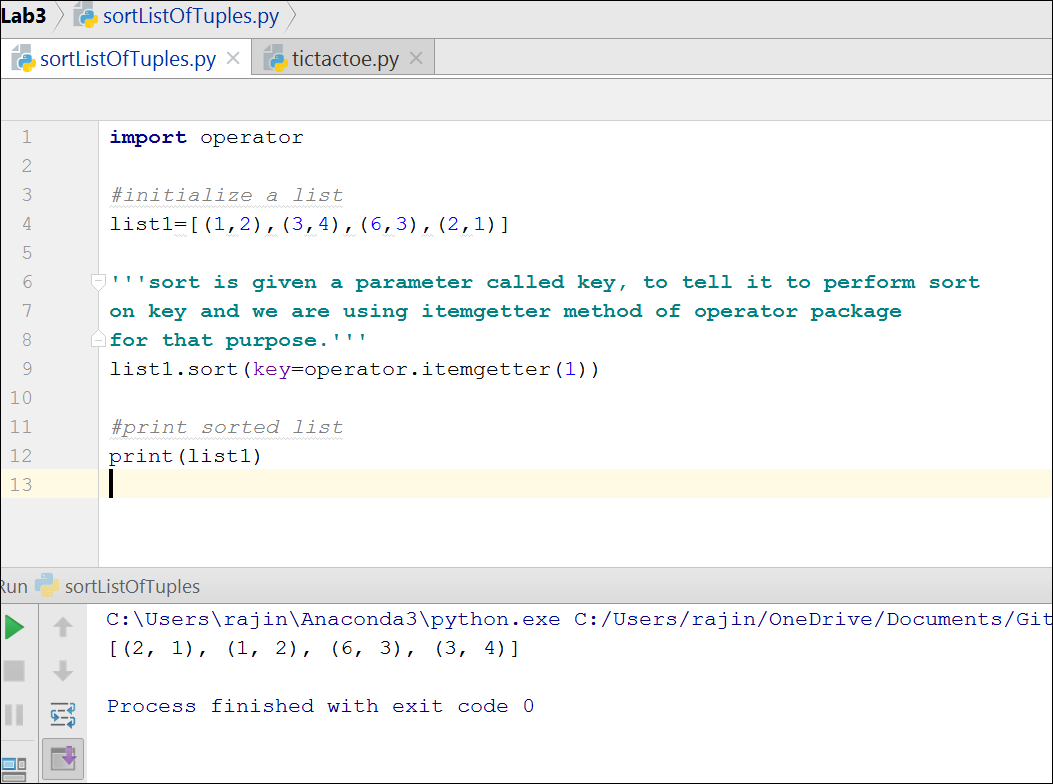
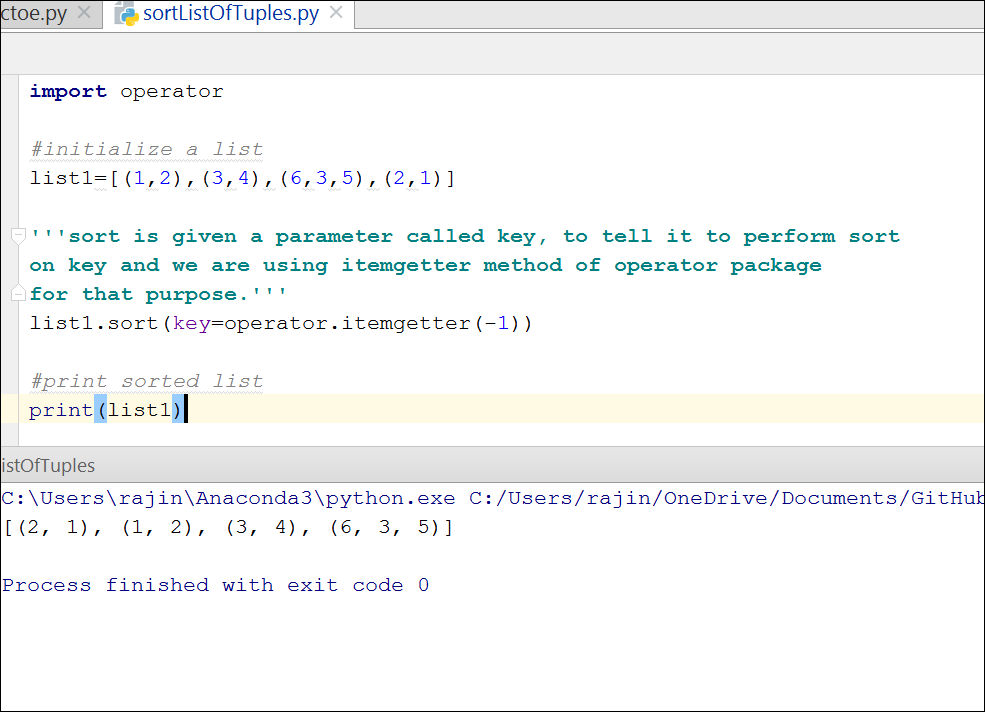
Lab 3 files organised

diff --git a/Lab3/Source/sortListOfTuples.py b/Lab3/Source/sortListOfTuples.py
@@ -1,12 +1,12 @@
 import operator
 
 #initialize a list
-list1=[(1,2),(3,4),(6,3),(2,1)]
+list1=[(1,2),(3,4),(6,3,5),(2,1)]
 
 '''sort is given a parameter called key, to tell it to perform sort 
 on key and we are using itemgetter method of operator package
 for that purpose.'''
-list1.sort(key=operator.itemgetter(1))
+list1.sort(key=operator.itemgetter(-1))
 
 #print sorted list
 print(list1)
